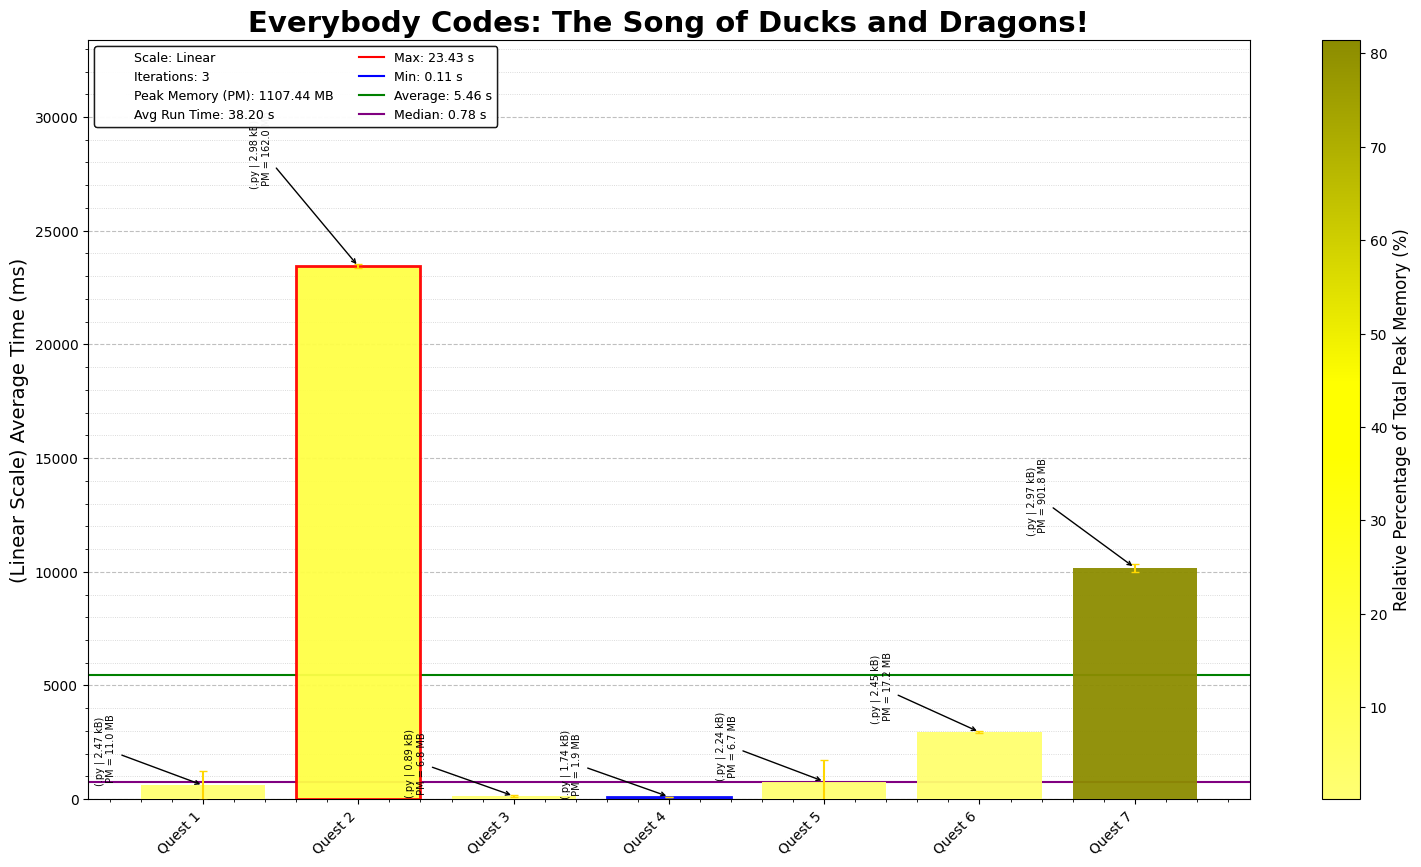
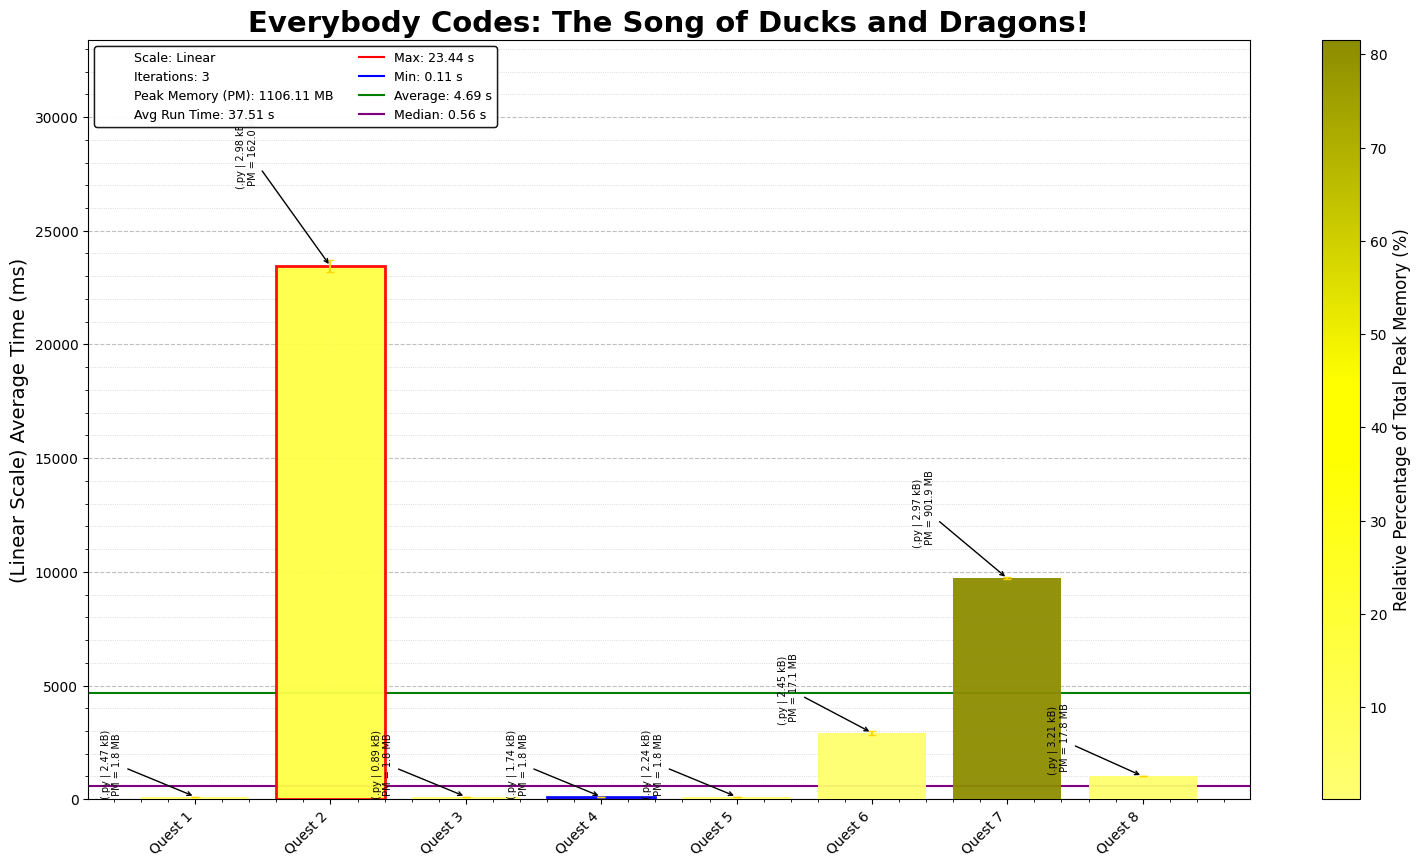
EC 2025 Quest 08: Art of Connections

diff --git a/2025/08/2025Day08.py b/2025/08/2025Day08.py
@@ -1,0 +1,93 @@
+"""Everybody Codes - Quest 8, Year 2025
+Solution Started: November 13, 2025
+Puzzle Link: https://everybody.codes/event/2025/quests/8
+Solution by: Abbas Moosajee
+Brief: [The Art of Connection]"""
+
+#!/usr/bin/env python3
+from pathlib import Path
+from collections import defaultdict
+
+# List of input file names
+input_files = ["Day08_input_p1.txt", "Day08_input_p2.txt", "Day08_input_p3.txt"]
+
+# Read and split the input data into individual lists
+input_data_p1, input_data_p2, input_data_p3 = [
+    open(Path(__file__).parent / file).read().strip().split('\n\n')
+    for file in input_files
+]
+
+class CircleConnections:
+    def __init__(self, path_str):
+        self.full_path = list(map(int, path_str.split(",")))
+
+    def identify_opposites(self, all_points):
+        opposite_points = {}
+        unique_points = list(set(all_points))
+        total_points = len(unique_points)
+        for idx, point in enumerate(unique_points):
+            opposite_idx = int((idx + total_points / 2) % total_points)
+            opposite_points[point] = unique_points[opposite_idx]
+        return opposite_points
+
+    def follow_centre(self):
+        opposite_points = self.identify_opposites(self.full_path)
+        through_centre = 0
+        for a, b in zip(self.full_path, self.full_path[1:]):
+            opp_a = opposite_points[a]
+            if opp_a == b:
+                through_centre += 1
+        return through_centre
+
+    def count_knots(self):
+        points = self.full_path
+        segments = []
+        total_knots = 0
+
+        # Build list of all segments (normalize endpoints so a<b)
+        for a, b in zip(points, points[1:]):
+            if a > b:
+                a, b = b, a
+            segments.append((a, b))
+
+        # Compare all pairs of segments to count crossings
+        for i, (a,b) in enumerate(segments):
+            for (c,d) in segments[i+1:]:
+                # Normalize second segment too
+                if c > d:
+                    c, d = d, c
+                # Skip if they share an endpoint (no knot at nails)
+                if len({a, b, c, d}) < 4:
+                    continue
+                # Interleave test (crossing)
+                if (a < c < b < d) or (c < a < d < b):
+                    total_knots += 1
+        return total_knots
+
+    def cut_best_string(self):
+        points = self.full_path
+        n = max(points)
+        links = defaultdict(list)
+
+        # Build adjacency for the thread path
+        for a, b in zip(points, points[1:]):
+            links[a].append(b)
+            links[b].append(a)
+
+        best_cuts = 0
+        for a in range(1, n + 1):
+            cuts = 0
+            for b in range(a + 2, n + 1):
+                cuts -= sum(1 for c in links[b] if a < c < b - 1)
+                cuts += sum(1 for c in links[b - 1] if not a <= c <= b)
+                best_cuts = max(best_cuts, cuts + (b in links[a]))
+        return best_cuts
+
+centre_cuts = CircleConnections(input_data_p1[0]).follow_centre()
+print("Quest 08, P1:", centre_cuts)
+
+total_knots = CircleConnections(input_data_p2[0]).count_knots()
+print("Quest 08, P2:", total_knots)
+
+best_cut = CircleConnections(input_data_p3[0]).cut_best_string()
+print("Quest 08, P3:", best_cut)

diff --git a/2025/README_2025.md b/2025/README_2025.md
@@ -13,3 +13,4 @@ This repository contains coding solutions for the 2025 Everybody Codes. Each day
 5. **Day 5 - Fishbone Order**: Interesting way to build a tree fairly simple overall, but figuring out how to skip over segments took a bit of time.
 6. **Day 6 - Mentorship Matrix**: Perfect Problem that shows how sart decisions at the start can save time towards the end, which alas I did not
 7. **Day 7 - Namegraph**: Validate names according to a series of rules, and then extend it according tot he same rules usinng a bfs
+8. **Day 8 - The Art of Connection**: Not a bad puzzle overall but geometry is really annoying
